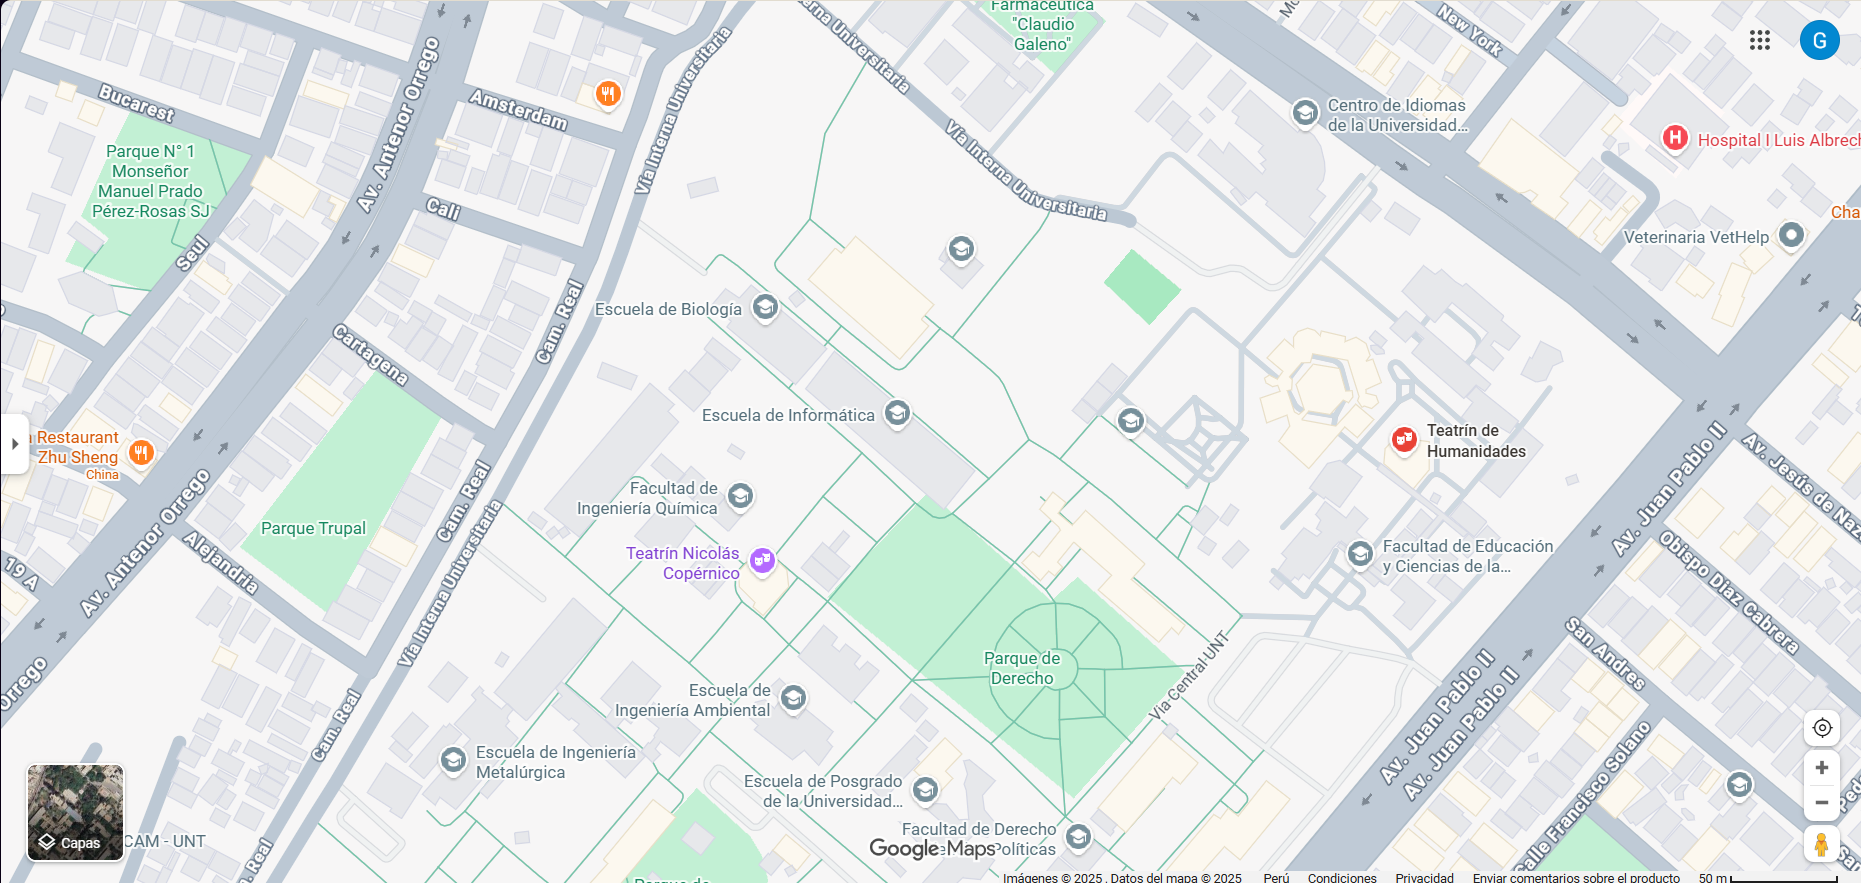
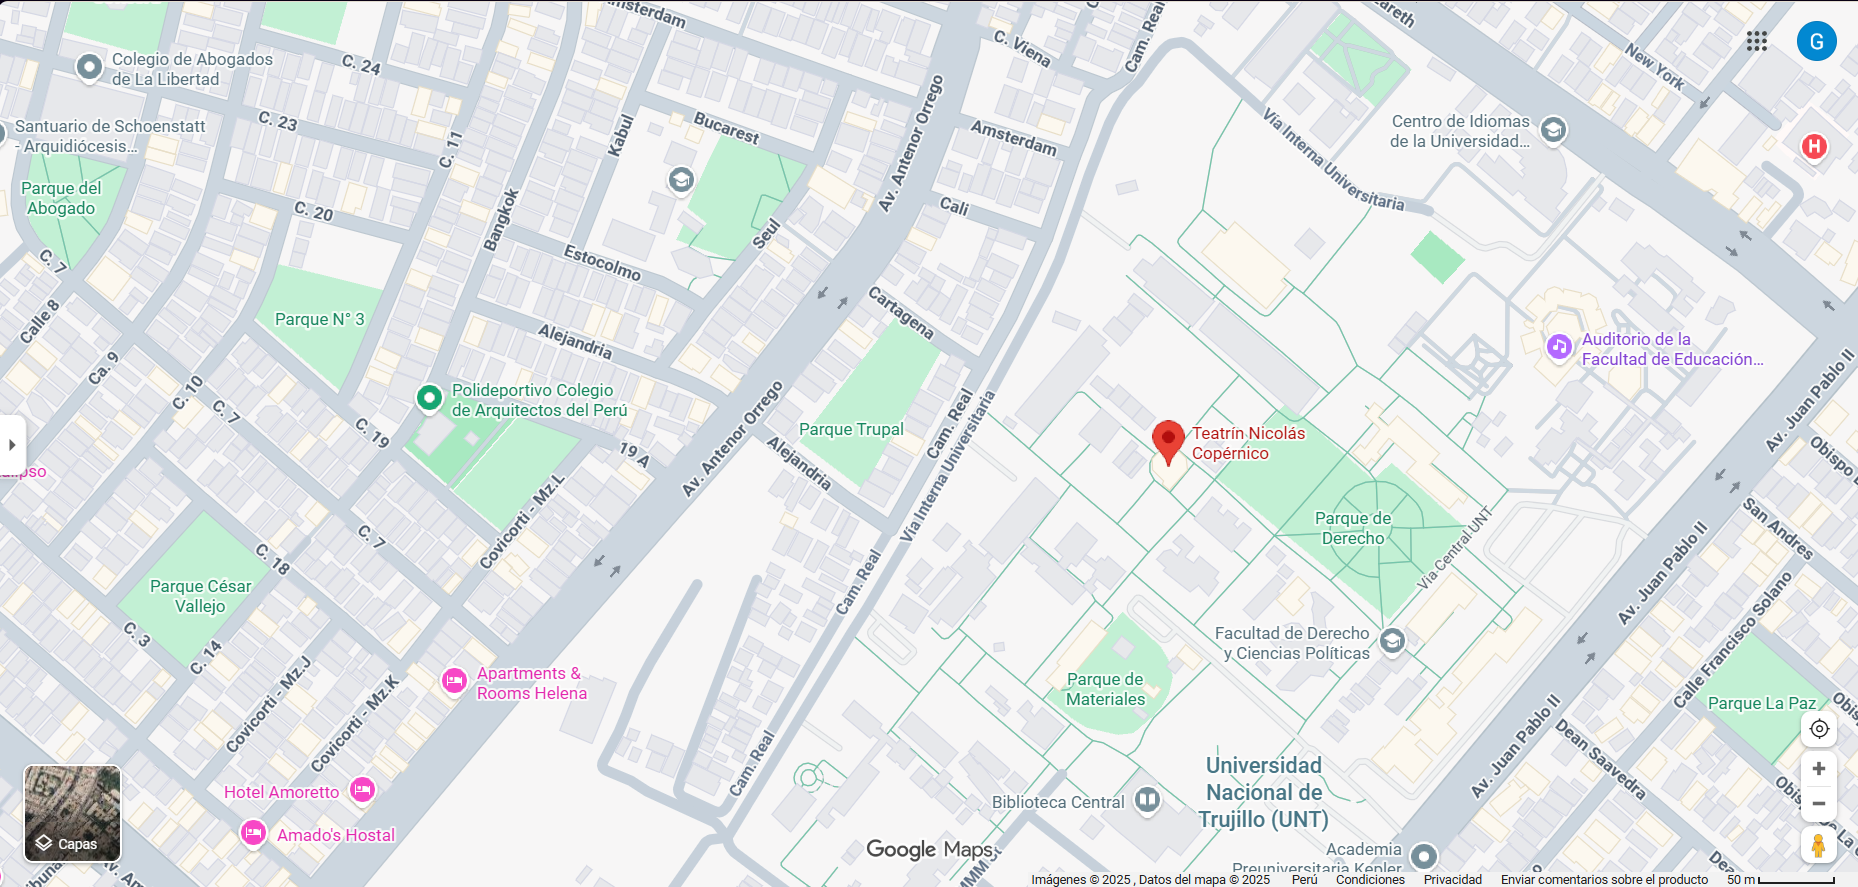
ubicacion corregida

diff --git a/src/pages/Ubicación.tsx b/src/pages/Ubicación.tsx
@@ -8,10 +8,10 @@ interface UbicacionProps {
 }
 
 const Ubicacion: React.FC<UbicacionProps> = ({
-  title = "AUDITORIO DE",
-  subtitle = "HUMANIDADES",
+  title = "AUDITORIO",
+  subtitle = "COPÉRNICO",
   mapImage = "/images/ubicacion.png", // Imagen desde public/images/
-  mapLink = "https://www.google.com/maps/place/Teatro+de+Humanidades"
+  mapLink = "https://www.google.com/maps/place/Teatrín+Nicolás+Copérnico/@-8.1132694,-79.0400585,17.5z/data=!4m6!3m5!1s0x91ad3d9ef90488e9:0x73783cb69cf5bb17!8m2!3d-8.1133814!4d-79.038607!16s%2Fg%2F1hhjxkwm_?entry=ttu&g_ep=EgoyMDI1MTExNy4wIKXMDSoASAFQAw%3D%3D"
 }) => {
   return (
     <section className="relative w-full bg-linear-to-b from-[#0a1f44] via-[#1a3a5f] to-[#2d4a6f] py-16 px-6 md:px-12 lg:px-20">
@@ -77,28 +77,6 @@ const Ubicacion: React.FC<UbicacionProps> = ({
               Ver en Google Maps
             </div>
           </a>
-        </div>
-
-        {/* Optional: Address or additional info */}
-        <div className="mt-8 max-w-6xl mx-auto">
-          <div className="flex items-start gap-3 text-blue-100/80">
-            <svg 
-              className="w-6 h-6 mt-1 shrink-0" 
-              fill="currentColor" 
-              viewBox="0 0 20 20"
-            >
-              <path 
-                fillRule="evenodd" 
-                d="M5.05 4.05a7 7 0 119.9 9.9L10 18.9l-4.95-4.95a7 7 0 010-9.9zM10 11a2 2 0 100-4 2 2 0 000 4z" 
-                clipRule="evenodd"
-              />
-            </svg>
-            <div>
-              <p className="font-medium text-white">Teatro de Humanidades</p>
-              <p className="text-sm mt-1">Universidad Nacional de Trujillo, Av. Juan Pablo II</p>
-              <p className="text-sm">Trujillo, La Libertad, Perú</p>
-            </div>
-          </div>
         </div>
       </div>
 
